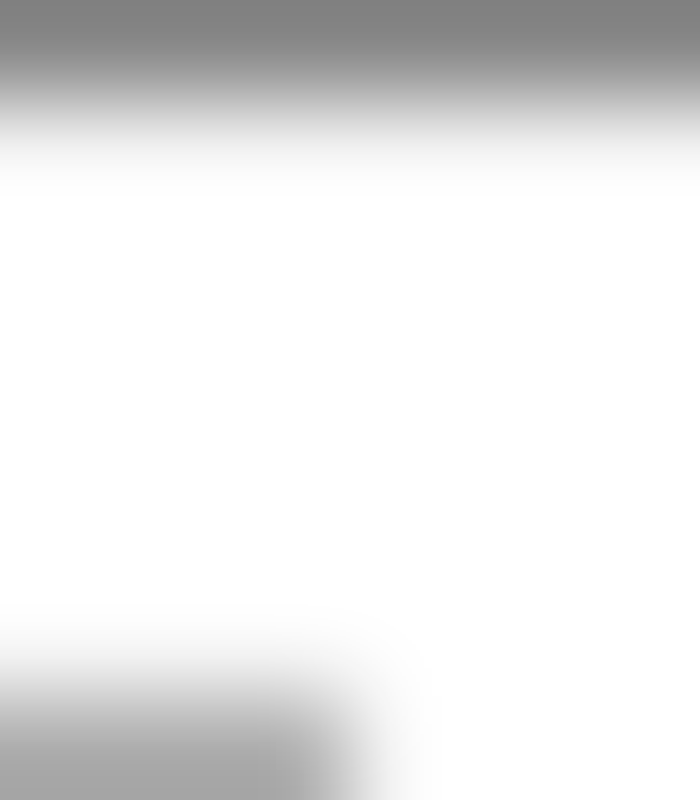
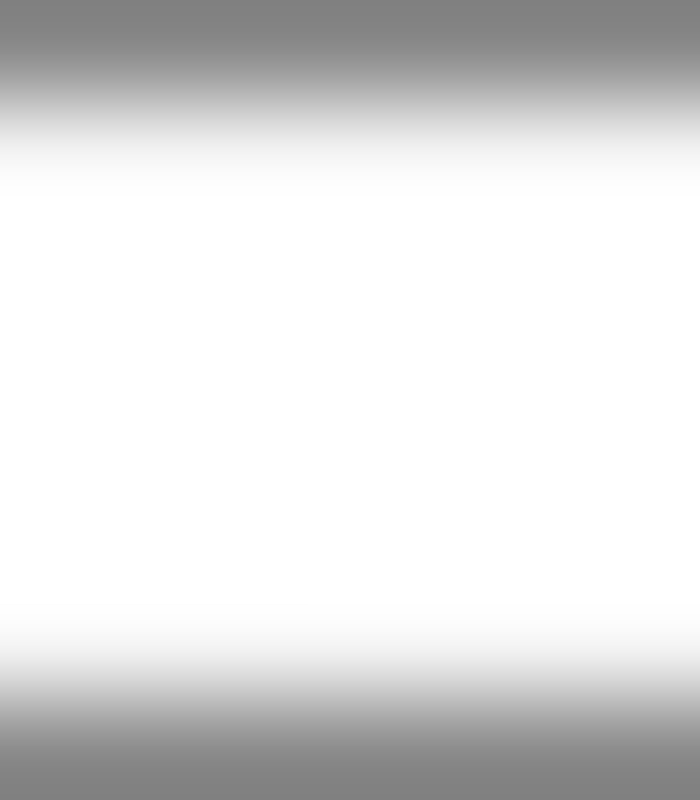
Added locked second weapon

Changed region(s): [[0.0, 0.8125, 1.0, 1.0]]

diff --git a/src/main/java/org/bcit/comp2522/project/WavesDisplay.java b/src/main/java/org/bcit/comp2522/project/WavesDisplay.java
@@ -41,10 +41,12 @@ public class WavesDisplay {
 
     // Load the image file
     PImage backgroundImage = parent.loadImage("images/window shadow.png");
+    PImage playerGuns = parent.loadImage("images/player_guns.png");
 
 
     // Draw the image below all the text
     parent.image(backgroundImage, 0, parent.height - backgroundImage.height);
+    parent.image(playerGuns, 0, parent.height - backgroundImage.height);
 
 
     parent.fill(176, 212, 222);

diff --git a/src/main/java/org/bcit/comp2522/project/Bullet.java b/src/main/java/org/bcit/comp2522/project/Bullet.java
@@ -113,7 +113,7 @@ public class Bullet extends Collidable {
    * This method draws the bullet.
    */
   public void drawBullet() {
-    PImage bulletImage = window.loadImage("images/player/bullet.png");
+    PImage bulletImage = window.loadImage("images/weapons/souls.png");
     window.image(bulletImage, x, y, size + 10, size + 10);
   }
 
